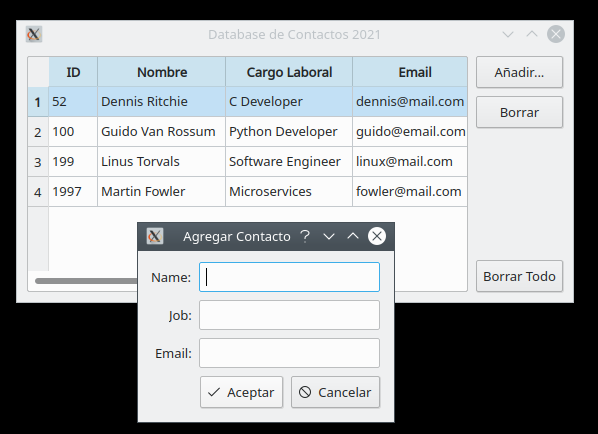
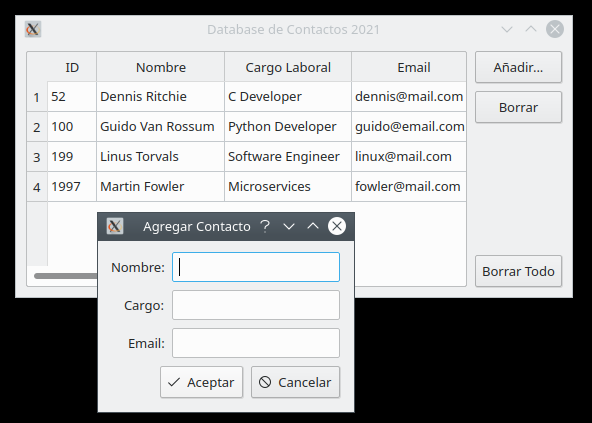
[Fix] Crop Agregar image

Changed region(s): [[0.0, 0.0307, 0.973, 0.9835]]

diff --git a/contactos/views.py b/contactos/views.py
@@ -121,8 +121,8 @@ class AddDialog(QDialog):
         self.emailField.setObjectName("Email")
         # Extender los campos de datos.
         layout = QFormLayout()
-        layout.addRow("Name:", self.nameField)
-        layout.addRow("Job:", self.jobField)
+        layout.addRow("Nombre:", self.nameField)
+        layout.addRow("Cargo:", self.jobField)
         layout.addRow("Email:", self.emailField)
         self.layout.addLayout(layout)
         # Agregar botones standards al cuadro de dialogo y conectarlos entre sí.
